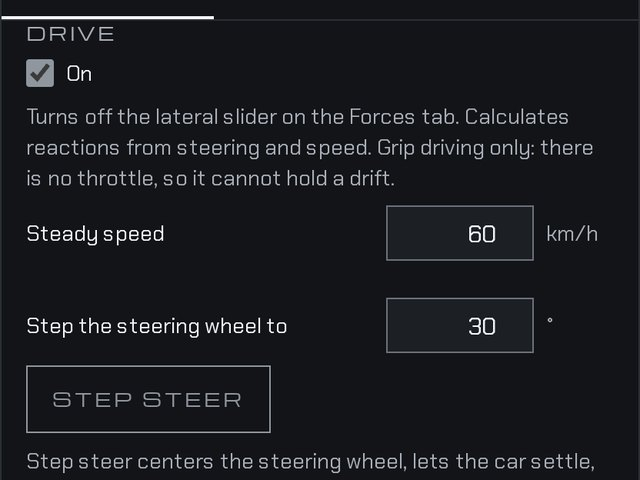
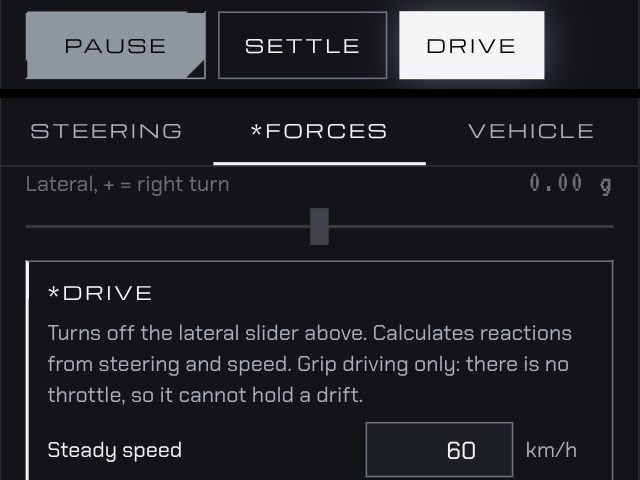
Drive is a header button; its controls sit on the Forces tab; clearer Curve menu
- Drive: a button after Pause and Settle that lights up when on. While it
  is on the Forces tab reads *Forces, the lateral slider is dimmed, and a
  *Drive box under it holds steady speed, a steering wheel slider and
  step steer. The Drive group is gone from the Steering tab.
- The MX-5 NB8C tag moved from the header to the 3D screen.
- Curve menu: one flat list, each entry names both axes.
- Quick start pictures re-shot.

Claude-Session: https://claude.ai/code/session_01BNDLU7DpBFqFfKrHoCr7PP

diff --git a/index.html b/index.html
@@ -4,7 +4,7 @@
 <meta charset="utf-8">
 <meta name="viewport" content="width=device-width, initial-scale=1, viewport-fit=cover">
 <title>Double Wishbone Simulator</title>
-<link rel="stylesheet" href="style.css?v=dc6198d0">
+<link rel="stylesheet" href="style.css?v=9bf38bcf">
 </head>
 <body>
 <div class="app">
@@ -20,13 +20,13 @@
     <div class="simbar">
       <button class="btn primary" id="play" title="Run or pause (space bar)">Pause</button>
       <button class="btn" id="reset">Settle</button>
+      <button class="btn tog" id="driveOn" aria-pressed="false" title="Drive the car at a steady speed: the tires make the lateral g. Its controls are on the Forces tab.">Drive</button>
       <div class="seg rd" id="preset" role="group" aria-label="Car"><button aria-pressed="false" data-p="stock">Stock</button><button aria-pressed="false" data-p="coen">Coen's</button><button aria-pressed="false" data-p="session" title="Your edits, kept in this browser">Session</button></div>
     </div>
     <div class="simbar">
       <div class="seg rd" id="speed" role="group" aria-label="Simulation speed">
         <button aria-pressed="true" data-v="1">1x</button><button aria-pressed="false" data-v="0.25">1/4x</button><button aria-pressed="false" data-v="0.1">1/10x</button>
       </div>
-      <span class="tag">MX-5 NB8C</span>
     </div>
     <div class="simbar files">
       <button class="btn" id="introBtn" title="Open the quick start guide">Guide</button>
@@ -80,12 +80,6 @@
       <div class="sl"><label for="sw">Angle, + = right</label><output id="swO"></output><input type="range" id="sw" min="-468" max="468" step="1" value="0"></div>
       <div class="rowbtns"><button class="btn" id="swL">Full left</button><button class="btn" id="swC">Center</button><button class="btn" id="swR">Full right</button></div>
     </fieldset>
-    <div id="linkFields" class="groups"></div>
-    <fieldset>
-      <div class="f"><label for="ssA">Step the steering wheel to</label><input id="ssA" type="number" value="30" step="5" min="-400" max="400"><span class="u">°</span></div>
-      <div class="rowbtns"><button class="btn" id="ssGo">Step steer</button></div>
-      <p class="hint" id="ssNote">Step steer centers the steering wheel, lets the car settle, then turns it to this angle (degrees at the steering wheel, + = right). The History panel shows the response.</p>
-    </fieldset>
     <table id="steerOut" class="wrap"></table>
     <div id="strFields" class="groups"></div>
     <div id="tieFields" class="groups"></div>
@@ -94,8 +88,14 @@
 
   <div class="pane" id="p-load" role="tabpanel" hidden>
     <fieldset><legend>Body acceleration / steady</legend>
-      <div class="sl"><label for="ay">Lateral, + = right turn</label><output id="ayO"></output><input type="range" id="ay" min="-1.5" max="1.5" step="0.01" value="0"></div>
-      <p class="hint" id="ayNote" hidden>Drive is on (Steering tab), so lateral g comes from the tires.</p>
+      <div class="sl" id="ayRow"><label for="ay">Lateral, + = right turn</label><output id="ayO"></output><input type="range" id="ay" min="-1.5" max="1.5" step="0.01" value="0"></div>
+      <div class="drv" id="drvBox" hidden>
+        <div id="linkFields"></div>
+        <div class="sl"><label for="sw2">Steering wheel, + = right</label><output id="sw2O"></output><input type="range" id="sw2" min="-468" max="468" step="1" value="0"></div>
+        <div class="f"><label for="ssA">Step the steering wheel to</label><input id="ssA" type="number" value="30" step="5" min="-400" max="400"><span class="u">°</span></div>
+        <div class="rowbtns"><button class="btn" id="ssGo">Step steer</button></div>
+        <p class="hint" id="ssNote">Step steer centers the steering wheel, lets the car settle, then turns it to this angle (degrees at the steering wheel, + = right). The History panel shows the response.</p>
+      </div>
       <div class="sl"><label for="ax">Longitudinal, + = accelerating</label><output id="axO"></output><input type="range" id="ax" min="-1.5" max="1.2" step="0.01" value="0"></div>
     </fieldset>
     <fieldset><legend>Point load / downward</legend>
@@ -127,7 +127,7 @@
     <div class="scan"></div>
     <div class="frame">
       <div>
-        <div class="osd"><span class="grp"><span id="oState">▶ Run</span><span id="oSpeed">1x</span></span><span id="hTime">Sim 00:00.0</span></div>
+        <div class="osd"><span class="grp"><span id="oState">▶ Run</span><span id="oSpeed">1x</span></span><span class="grp"><span class="tag">MX-5 NB8C</span><span id="hTime">Sim 00:00.0</span></span></div>
         <div class="hud">
           <div><span>Roll</span><b id="hRoll">0.00°</b></div>
           <div><span>Pitch</span><b id="hPitch">0.00°</b></div>
@@ -156,9 +156,15 @@
     </section>
     <section class="card">
       <h2>Curve <select id="curveQ" aria-label="Curve">
-        <optgroup label="Against wheel travel"><option value="cam">Camber</option><option value="toe">Toe (bump steer)</option><option value="dtr">Track change, per side</option><option value="MR">Motion ratio</option><option value="rch">Roll center height</option></optgroup>
-        <optgroup label="Against steering (front)"><option value="rw">Road-wheel angle</option><option value="camS">Camber</option><option value="lift">Body lift at the wheel</option></optgroup>
-        <optgroup label="Against lateral g"><option value="grip">Grip in use, front and rear</option></optgroup>
+        <option value="cam">Camber vs wheel travel</option>
+        <option value="toe">Toe (bump steer) vs wheel travel</option>
+        <option value="dtr">Track change per side vs wheel travel</option>
+        <option value="MR">Motion ratio vs wheel travel</option>
+        <option value="rch">Roll center height vs wheel travel</option>
+        <option value="rw">Road-wheel angle vs steering</option>
+        <option value="camS">Camber vs steering</option>
+        <option value="lift">Body lift at the wheel vs steering</option>
+        <option value="grip">Grip in use vs lateral g</option>
       </select></h2>
       <div class="lg" id="curveLg"></div>
       <div class="plot"><canvas id="curve" aria-label="Kinematic curve. Use the left and right arrow keys to read values."></canvas><div class="tip" id="curveTip" hidden></div></div>
@@ -252,7 +258,7 @@
         <li>Dynamics: body heave, pitch and roll (small angles) plus vertical motion of each wheel, and sideways slide and yaw while the car is driven. The body rolls about the roll axis, a tilted body carries its CG off-center over the wheels, and the CG height follows the ride height.</li>
         <li>Tires are thin discs with a linear vertical spring and light damping. They can leave the ground. Side force follows a Magic Formula curve from slip angle, load and camber: peak grip falls as load rises, cornering stiffness flattens with load, and camber leaning into the turn adds a little grip up to an optimum. The grip numbers are typical values, not test data, so trust the direction of a change more than the size.</li>
         <li>Grip in use: the car is settled at each lateral g and each axle's side force is compared with the most its two tires can make at their loads, cambers and toes. The axle that reaches 100 % first sets the limit. The understeer gradient is the change in front minus rear slip angle between 0.2 and 0.4 g.</li>
-        <li>Drive (Steering tab): at the set steady speed the tires make the side force from their slip angles, the car slides sideways and yaws, and lateral g comes out of that. Speed is held constant, the road is flat, and there is no drive or brake force at the tires. Past the limit the car plows or spins; that part is the least accurate. Cornering loads do not jack the body. While it is on, the floor grid in the 3D view moves under the car: it streams back at the car's speed, turns as the car yaws, and drifts sideways when the car slides. Finer grid lines fade out at speed so the motion stays readable.</li>
+        <li>Drive (the button at the top; its speed and steering controls are on the Forces tab): at the set steady speed the tires make the side force from their slip angles, the car slides sideways and yaws, and lateral g comes out of that. Speed is held constant, the road is flat, and there is no drive or brake force at the tires. Past the limit the car plows or spins; that part is the least accurate. Cornering loads do not jack the body. While it is on, the floor grid in the 3D view moves under the car: it streams back at the car's speed, turns as the car yaws, and drifts sideways when the car slides. Finer grid lines fade out at speed so the motion stays readable.</li>
         <li>No anti-dive or anti-squat: all longitudinal load transfer goes through the springs.</li>
         <li>Lateral load transfer through the links uses each axle's roll center height for equal travel on both sides and zero steer. The rear view shows the true roll center for reference.</li>
         <li>Steering lifts or lowers each front tire relative to its arm (caster and kingpin inclination), which shifts load diagonally. Springs, bump stops and anti-roll bars act on arm travel.</li>
@@ -272,11 +278,11 @@
     <h2 id="introT">Quick start</h2>
     <ol class="introSteps">
       <li><div><b><i>1</i>Set up the car</b><span>Starter setups: <em>Stock</em> · <em>Coen's</em><br>Input car geometries<br><em>Export</em> or <em>Import</em> setups</span></div>
-        <img src="intro-1.jpg?v=759f4f45" width="640" height="480" alt="The Stock, Coen's and Session buttons above the tabs, with the Geometry fields open"></li>
+        <img src="intro-1.jpg?v=c79f25ca" width="640" height="480" alt="The Pause, Settle and Drive buttons, the Stock, Coen's and Session buttons, and the tabs"></li>
       <li><div><b><i>2</i>Steer and load it</b><span>Steering wheel slider · Forces sliders</span></div>
-        <img src="intro-2.jpg?v=19d6150e" width="640" height="480" alt="The 3D view with the front wheels turned and the body leaning"></li>
+        <img src="intro-2.jpg?v=5bea5f39" width="640" height="480" alt="The 3D view with the front wheels turned and the body leaning"></li>
       <li><div><b><i>3</i>Test turn-in</b><span><em>Drive</em>: On<br>Assess turn-in reaction and grip limits of moving car</span></div>
-        <img src="intro-3.jpg?v=ffe933db" width="640" height="480" alt="The Drive group switched on, with the steady speed and the Step steer button"></li>
+        <img src="intro-3.jpg?v=7f1d9523" width="640" height="480" alt="The Drive button lit, and the Forces tab with the steady speed, steering wheel and Step steer controls"></li>
     </ol>
   </div>
 </div>
@@ -286,6 +292,6 @@
 <script src="OrbitControls.js"></script>
 <script src="body-model.js?v=5b8c0312"></script>
 <script src="core.js?v=7219f528"></script>
-<script src="ui.js?v=8e497509"></script>
+<script src="ui.js?v=27b150b4"></script>
 </body>
 </html>

diff --git a/ui.js b/ui.js
@@ -94,19 +94,20 @@ function renderForms(){
    row.className="rowbtns"; row.innerHTML='<button class="btn" id="fitTie">Least bump steer</button>'; tie.appendChild(row);
    const th=document.createElement("p"); th.className="hint"; th.textContent="The outer joint moves with the upright; the inner joint sits on the rack. The button moves the inner joint to the height with the least toe change over the travel range."; tie.appendChild(th);
    $("fitTie").onclick=fitTie;}
-  buildFields($("linkFields"),[STEER[1]],()=>P.steer,"st","",()=>"Drive");
-  const lf=$("linkFields").querySelector("fieldset"), chk=document.createElement("label");
-  chk.className="chk"; chk.innerHTML='<input type="checkbox" id="link"> On'; lf.insertBefore(chk,lf.children[1]);
-  const hint=document.createElement("p"); hint.className="hint";
-  hint.textContent="Turns off the lateral slider on the Forces tab. Calculates reactions from steering and speed. Grip driving only: there is no throttle, so it cannot hold a drift."; lf.insertBefore(hint,lf.children[2]);
-  $("link").checked=!!P.steer.link; $("link").onchange=()=>{P.steer.link=$("link").checked?1:0; syncLink();};
+  buildFields($("linkFields"),[STEER[1]],()=>P.steer,"st","",()=>"*Drive");      // on the Forces tab, under the lateral slider that Drive takes over
+  const lf=$("linkFields").querySelector("fieldset"), hint=document.createElement("p"); hint.className="hint";
+  hint.textContent="Turns off the lateral slider above. Calculates reactions from steering and speed. Grip driving only: there is no throttle, so it cannot hold a drift."; lf.insertBefore(hint,lf.children[1]);
   buildHeights();
 }
 function syncLink(){
-  const on=!!P.steer.link; $("ay").disabled=on; $("ayNote").hidden=!on; inp.U=on?P.steer.speed:0; if(!on) $("ay").value=ayManual;
+  const on=!!P.steer.link; $("ay").disabled=on; inp.U=on?P.steer.speed:0; if(!on) $("ay").value=ayManual;
+  $("driveOn").setAttribute("aria-pressed",on);                     // the header button lights up
+  const tb=$("tab-load"); tb.textContent=on?"*Forces":"Forces"; tb.classList.toggle("new",on);      // the star points at the tab that holds the Drive controls
+  $("ayRow").classList.toggle("off",on); $("drvBox").hidden=!on;    // the lateral slider goes dark and the Drive controls appear under it
   $("ssGo").disabled=$("ssA").disabled=!on;
   readLoads();
 }
+$("driveOn").onclick=()=>{P.steer.link=P.steer.link?0:1; syncLink(); setStatus(P.steer.link?"Drive on: the tires make the lateral g. Speed and steering are on the Forces tab.":"Drive off.",false);};
 function applyEdit(fn,msg){
   const backup=JSON.stringify(P);
   try{fn(); model=makeModel(P); save(); setStatus(msg||"Solved. Spring perches hold the target heights.",false); refreshStatic(); return true;}
@@ -191,8 +192,8 @@ document.querySelectorAll("[data-hit]").forEach(btn=>btn.onclick=()=>{const b=bu
 
 /* ---- steering ---- */
 function swMax(){return Math.floor(P.steer.rmax/P.steer.c*360);}
-function setSw(d){const mx=swMax(); swDeg=Math.max(-mx,Math.min(mx,d)); $("sw").value=swDeg; $("swO").textContent=sgnTxt(swDeg,0)+"°";}
-$("sw").addEventListener("input",()=>setSw(+$("sw").value));
+function setSw(d){const mx=swMax(); swDeg=Math.max(-mx,Math.min(mx,d)); $("sw").value=$("sw2").value=swDeg; $("swO").textContent=$("sw2O").textContent=sgnTxt(swDeg,0)+"°";}      // sw2: the same slider again among the Drive controls
+$("sw").addEventListener("input",()=>setSw(+$("sw").value)); $("sw2").addEventListener("input",()=>setSw(+$("sw2").value));
 $("swC").onclick=()=>setSw(0); $("swL").onclick=()=>setSw(-swMax()); $("swR").onclick=()=>setSw(swMax());
 const rackTarget=()=>Math.max(-P.steer.rmax,Math.min(P.steer.rmax,model.T[0].sgn*swDeg/360*P.steer.c));
 const swNow=()=>inp.rack/(model.T[0].sgn*P.steer.c)*360;
@@ -288,7 +289,7 @@ function refreshStatic(){
   const pr=(lab,v)=>`<tr><td>${lab}</td><td>${f(v[0])}</td><td>${f(v[1])}</td><td>${f(v[2])}</td></tr>`;
   $("pts").innerHTML=`<tr><th>mm</th><th>Ahead</th><th>From center</th><th>Height</th></tr>`+pr("Lower ball joint",p.LBJ)+pr("Upper ball joint",p.UBJ)+pr("Wheel center",p.WC)+pr("Contact patch",p.CP)+
     pr("Kingpin axis at ground",[T.kp[0],T.kp[1],0])+`<tr><td>Tie rod length</td><td colspan="3">${f(T.D.Lt)}</td></tr><tr><td>Steering arm length</td><td colspan="3">${f(T.D.arm)}</td></tr>`;
-  const mx=swMax(), sw=$("sw"); sw.min=-mx; sw.max=mx; setSw(swDeg);
+  const mx=swMax(); for(const sw of [$("sw"),$("sw2")]){sw.min=-mx; sw.max=mx;} setSw(swDeg);
   scheduleBalance();
   curveStatic();
 }

diff --git a/style.css b/style.css
@@ -70,6 +70,7 @@ h1{margin:0;font:400 28px/1.15 var(--font-display);letter-spacing:.04em;text-tra
 .btn.primary:active{background:linear-gradient(-45deg,transparent 8px,var(--vinyl) 8.5px)}
 .btn.ghost{padding:0 var(--space-2);border-color:transparent;color:var(--vinyl-dim)}
 .btn.ghost:hover{color:var(--vinyl)}
+.btn.tog[aria-pressed="true"],.btn.tog[aria-pressed="true"]:hover{background:var(--vinyl);border-color:var(--vinyl);color:var(--void);box-shadow:var(--glow-ice)}   /* a mode that is on: lit */
 .seg{display:inline-flex;border:1px solid var(--edge)}
 .seg button{min-height:32px;padding:0 var(--space-3);border:0;border-radius:0;background:none;color:var(--vinyl-dim);font:400 12px/16px var(--font-display);letter-spacing:.14em;text-transform:uppercase;cursor:pointer}
 .seg button+button{border-left:1px solid var(--edge)}
@@ -84,7 +85,8 @@ h1{margin:0;font:400 28px/1.15 var(--font-display);letter-spacing:.04em;text-tra
 .tab{min-height:44px;padding:var(--space-1);border:0;border-bottom:2px solid transparent;border-radius:0;background:none;color:var(--vinyl-dim);
   font:400 12px/16px var(--font-display);letter-spacing:.14em;text-transform:uppercase;cursor:pointer}
 .tab:hover{color:var(--vinyl)}
-.tab[aria-selected="true"]{color:var(--vinyl);border-bottom-color:var(--vinyl)}
+.tab[aria-selected="true"],.tab.new{color:var(--vinyl)}
+.tab[aria-selected="true"]{border-bottom-color:var(--vinyl)}
 .tab:focus-visible{outline-offset:-2px}
 .pane{padding:var(--space-4);overflow:auto;flex:1;min-height:0;display:flex;flex-direction:column;gap:var(--space-6)}
 .pane>*{flex:none}
@@ -108,6 +110,9 @@ legend{padding:0;margin-bottom:var(--space-2);color:var(--vinyl-dim);font:400 12
 .rowbtns{display:flex;flex-wrap:wrap;gap:var(--space-2);align-items:center}
 .sl{display:grid;grid-template-columns:minmax(0,1fr) auto;gap:var(--space-1) var(--space-2);align-items:baseline}
 .sl output{font:400 20px/20px var(--font-osd);letter-spacing:.06em}
+.sl.off{opacity:.4}                                    /* a slider the current mode has taken over */
+.drv{display:grid;gap:var(--space-2);padding:var(--space-3);border:1px solid var(--edge);border-left:2px solid var(--vinyl)}   /* the controls Drive adds, under the slider it replaces */
+.drv legend{color:var(--vinyl)}
 input[type=range]{grid-column:1/-1;width:100%;height:28px;margin:0;padding:0;background:none;-webkit-appearance:none;appearance:none;cursor:pointer}
 input[type=range]::-webkit-slider-runnable-track{height:2px;background:var(--edge)}
 input[type=range]::-moz-range-track{height:2px;background:var(--edge)}

diff --git a/README.md b/README.md
@@ -73,8 +73,8 @@ The Miata has no rear toe link. Its rear lower arm holds the upright at two oute
 | Geometry | Arms, chassis pivots, upright, alignment, per axle |
 | Wheels & tires | Wheel, tire size and rate, tire grip, per axle |
 | Springs & heights | Springs, dampers, anti-roll bar, coilover mount, travel limits, ride height |
-| Steering | Steering wheel, Drive with steady speed and step steer, rack, cut knuckles, tie rod |
-| Forces | Lateral and longitudinal g, a point load, road bumps |
+| Steering | Steering wheel, rack, cut knuckles, tie rod |
+| Forces | Lateral and longitudinal g, a point load, road bumps. While Drive is on the tab reads *Forces, the lateral slider is dimmed, and the Drive controls (steady speed, steering wheel, step steer) sit under it |
 | Vehicle | Mass, inertias, wheelbase, CG |
 
 ## Wheels and tires
@@ -89,8 +89,8 @@ The Miata has no rear toe link. Its rear lower arm holds the upright at two oute
 - **Telemetry** shows each tire's slip angle and the share of its grip in use.
 - **Setup sheet** runs from everyday numbers to detail: alignment at ride height, wheels and ride height, springs and dampers, then roll, pitch and grip (the cornering limit of the front and rear tires, which end runs out first, and the understeer gradient), steering, and geometry detail.
 - The **space bar** runs and pauses the simulation from anywhere on the page.
-- **Curve → Grip in use** plots both axles against lateral g. The line that reaches 100 % first sets the limit.
-- **Steering → Drive** runs the car at the steady speed: the tires make the side force, the car slides and yaws, and lateral g comes out of that. With it off you set lateral g on the Forces tab. It is a mode, not part of a setup: it is off every time the page opens or a car is loaded, and switching it does not change which car button is lit. **Step steer** (only while it is on) centers the wheel, then turns it to the angle entered; the History panel shows lateral g, yaw rate and roll building up.
+- The **Curve** menu names both axes of each curve (for example "Camber vs wheel travel" and "Camber vs steering"). **Grip in use vs lateral g** plots both axles against lateral g. The line that reaches 100 % first sets the limit.
+- The **Drive** button at the top (next to Pause and Settle) lights up and runs the car at the steady speed: the tires make the side force, the car slides and yaws, and lateral g comes out of that. With it off you set lateral g on the Forces tab. It is a mode, not part of a setup: it is off every time the page opens or a car is loaded, and switching it does not change which car button is lit. **Step steer** (only while it is on) centers the wheel, then turns it to the angle entered; the History panel shows lateral g, yaw rate and roll building up.
 - While Drive is on, the floor grid in the 3D view moves under the car: it streams back at the car's speed, turns as the car yaws and drifts sideways when the car slides. `GND` in `ui.js` holds the car's heading and position.
 - Speed is constant, the road is flat, and no drive or brake force acts at the tires. If the car slides sideways faster than it moves forward it has spun, and the page centers the steering.
 
